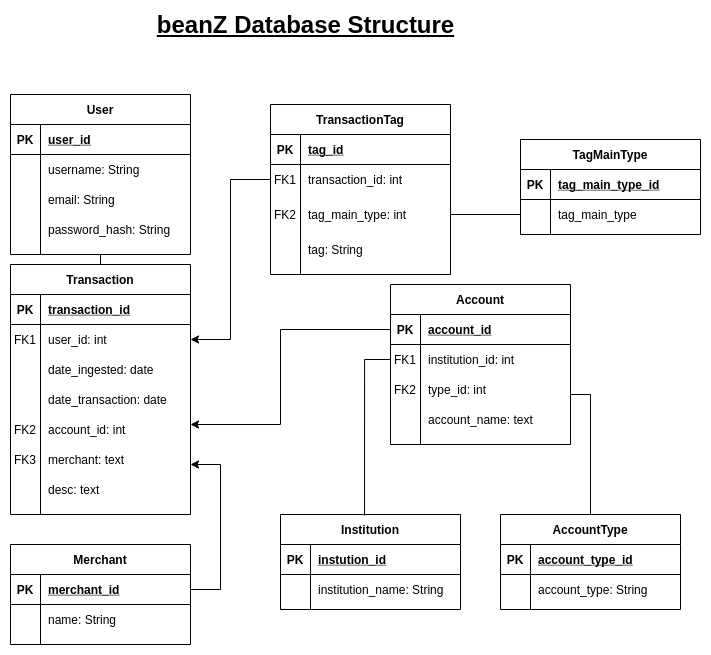
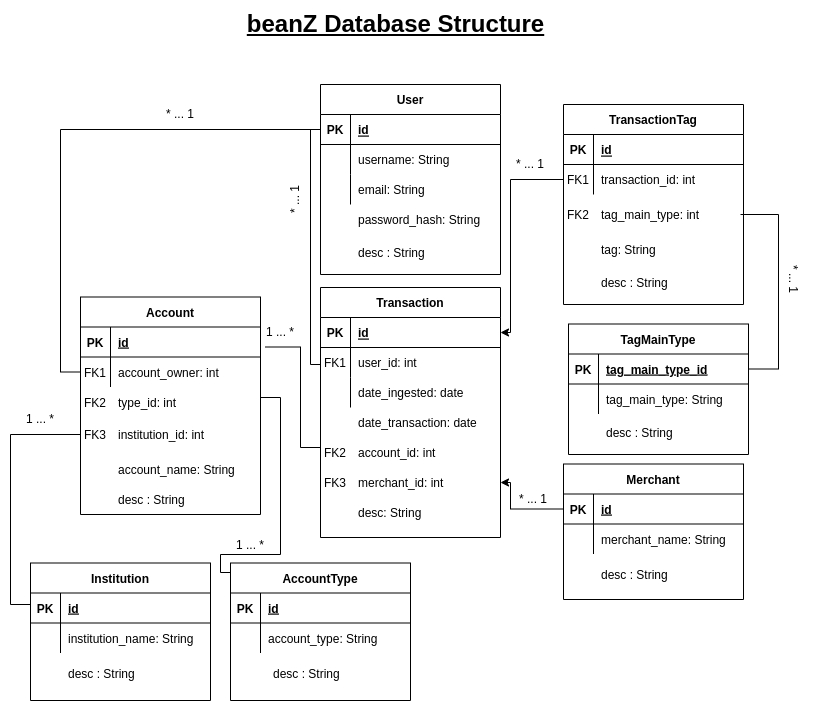
updated db schema

diff --git a/app/models.py b/app/models.py
@@ -16,6 +16,7 @@ class User(UserMixin, db.Model):
     password_hash = db.Column(db.String(128))
     transactions = db.relationship('Transaction', backref='user', lazy='dynamic')
     last_seen = db.Column(db.DateTime, default=datetime.utcnow())
+    desc = db.Column(db.String(240))
 
     def __repr__(self):
         return f"<User {self.username}- email: {self.email}"
@@ -50,7 +51,7 @@ class Transaction(db.Model):
     date_transaction = db.Column(db.DateTime, index=True)
     account_id = db.Column(db.Integer, db.ForeignKey('account.id'))
     merchant_id = db.Column(db.Integer, db.ForeignKey('merchant.id'))
-    desc = db.Column(db.String(120))
+    desc = db.Column(db.String(240))
 
     def __repr__(self):
         return f"<Transaction {self.date_transaction}- {self.desc}>"
@@ -59,10 +60,12 @@ class Transaction(db.Model):
 class Account(db.Model):
     __tablename__ = 'account'
     id = db.Column(db.Integer, primary_key=True)
-    account_name = db.Column(db.String(120))
-    institution_id = db.Column(db.Integer, db.ForeignKey('institution.id'))
+    account_owner = db.Column(db.Integer, db.ForeignKey('user.id'))
     type_id = db.Column(db.Integer, db.ForeignKey('account_type.id'))
+    institution_id = db.Column(db.Integer, db.ForeignKey('institution.id'))
+    account_name = db.Column(db.String(120))
     transactions = db.relationship('Transaction', backref='account', lazy='dynamic') #one account can have many transactions.
+    desc = db.Column(db.String(240))
 
     def __repr__(self):
         return f"Account {self.account_name}"
@@ -72,6 +75,8 @@ class Institution(db.Model):
     __tablename__ = 'institution'
     id = db.Column(db.Integer, primary_key=True)
     institution_name = db.Column(db.String(64), index=True)
+    desc = db.Column(db.String(240))
+    
 
     def __repr__(self):
         return f"Institution {self.institution_name}"
@@ -81,6 +86,7 @@ class AccountType(db.Model):
     __tablename__ = 'account_type'
     id = db.Column(db.Integer, primary_key=True)
     account_type = db.Column(db.String(64), index=True)
+    desc = db.Column(db.String(240))
 
     def __repr__(self):
         return f"AccountType {self.account_type}"
@@ -91,6 +97,7 @@ class TransactionTag(db.Model):
     id = db.Column(db.Integer, primary_key=True)
     transaction_id = db.Column(db.Integer, db.ForeignKey('transaction.id'))
     tag = db.Column(db.String(64))
+    desc = db.Column(db.String(240))
 
     def __repr__(self):
         return f"TransactionTag {self.tag}"
@@ -100,6 +107,7 @@ class Merchant(db.Model):
     __tablename__ = 'merchant'
     id = db.Column(db.Integer, primary_key=True)
     merchant_name = db.Column(db.String(120))
+    desc = db.Column(db.String(240))
 
     def __repr__(self):
         return f"Merchant {self.merchant_name}"
